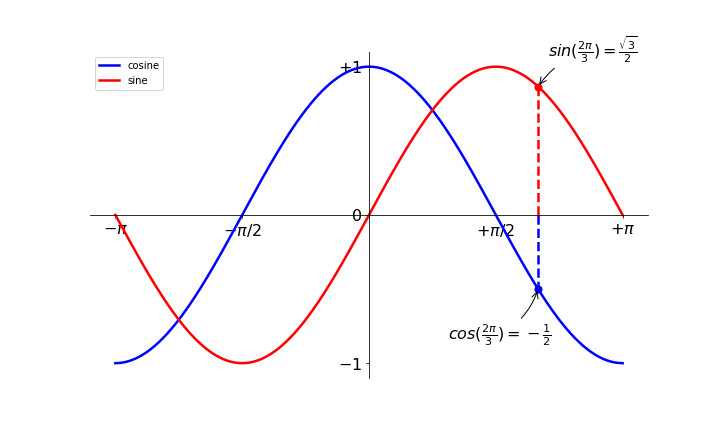
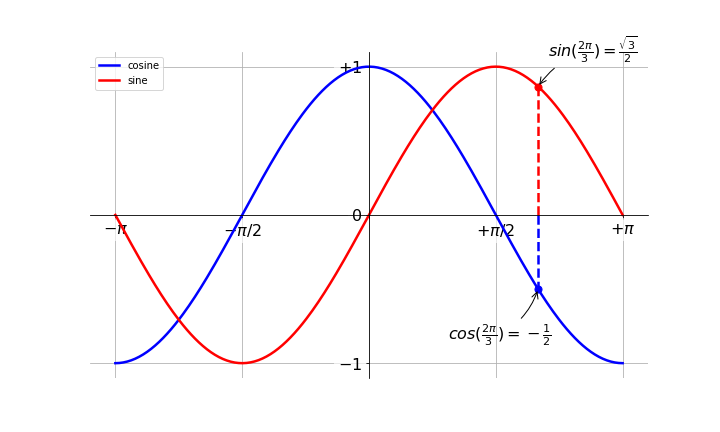
Add files via upload

Changed region(s): [[0.8556, 0.1505, 0.8861, 0.1806], [0.6722, 0.8125, 0.7028, 0.8426], [0.3361, 0.1505, 0.3667, 0.1806]]

diff --git a/lineplot_sine_cosine.py b/lineplot_sine_cosine.py
@@ -2,7 +2,6 @@
 # -*- coding: utf-8 -*-
 """
 Created on Fri Nov  1 18:28:22 2019
-
 Customized line plotting of NumPy sine and cosine functions
 - plotting with default settings
 - instantiating defaults
@@ -14,7 +13,6 @@ Customized line plotting of NumPy sine and cosine functions
 - adding a legend
 - annotating some points
 - artist and bbox customization
-
 @author: alberto
 """
 
@@ -96,6 +94,9 @@ for label in ax.get_xticklabels() + ax.get_yticklabels():
             facecolor='white',
             edgecolor='None',
             alpha=0.65))
+
+# Add grid
+plt.grid()
 
 # Save figure using 72 dots per inch
 plt.savefig('lineplot_sine_cosine.png', dpi=72)
